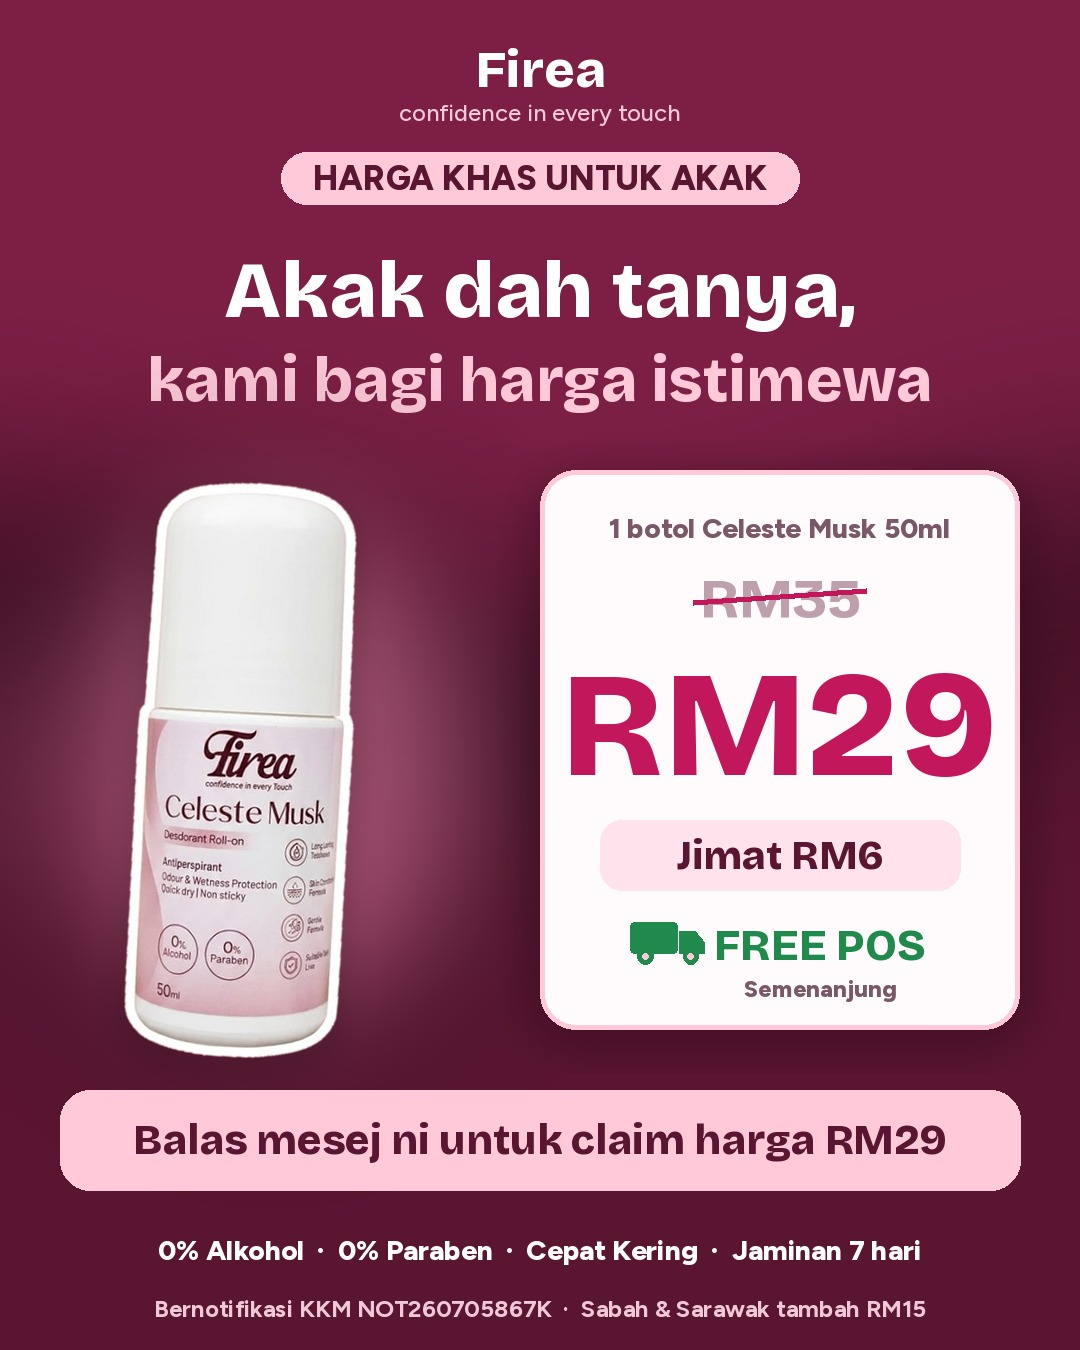
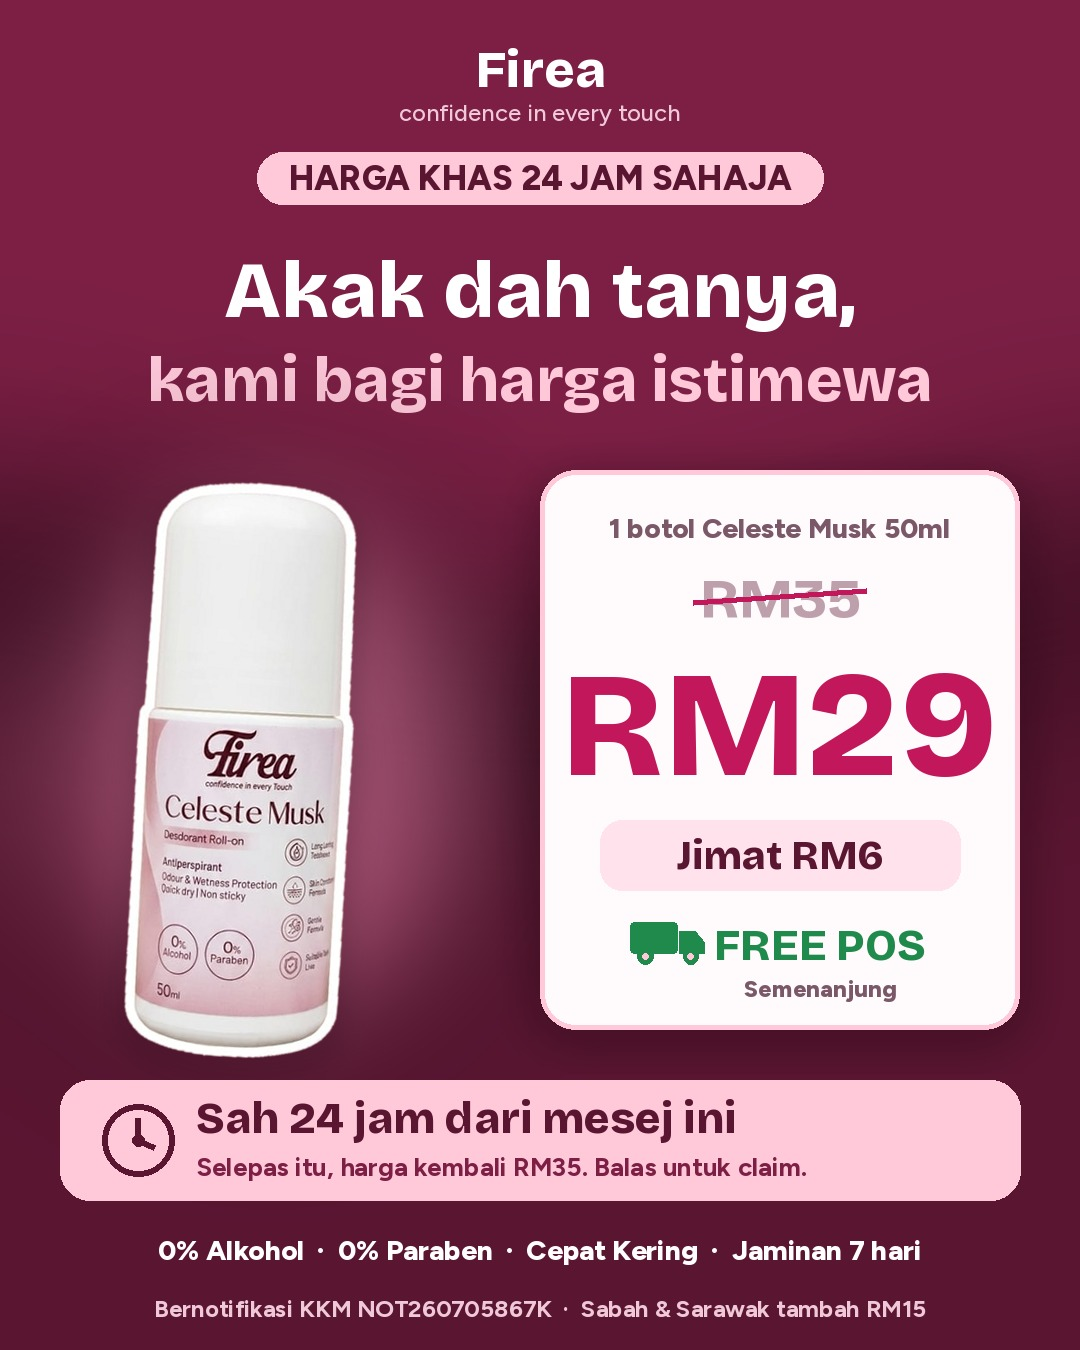
Limit RM29 offer poster to 24 hours
Claude-Session: https://claude.ai/code/session_01FgdAy58wajktQYLn5mzK8A

Changed region(s): [[0.0611, 0.7778, 0.9472, 0.9022], [0.2139, 0.0933, 0.7639, 0.1556]]

diff --git a/firea/posters/make_posters.py b/firea/posters/make_posters.py
@@ -403,7 +403,7 @@ def poster_offer_29():
     """Offer follow-up untuk yang dah WhatsApp tapi belum bayar: 1 botol RM29, free pos Semenanjung."""
     base = bg_berry(); d = ImageDraw.Draw(base)
     brand_header(base, dark=True)
-    pill(d, W / 2, 178, "HARGA KHAS UNTUK AKAK", F("Figtree800", 34), PETAL, BERRY, 32, 14)
+    pill(d, W / 2, 178, "HARGA KHAS 24 JAM SAHAJA", F("Figtree800", 34), PETAL, BERRY, 32, 14)
     text(d, (W / 2, 290), "Akak dah tanya,", F("Bricolage800", 80), WHITE, "mm")
     text(d, (W / 2, 380), "kami bagi harga istimewa", F("Bricolage800", 62), PETAL, "mm")
     glow = Image.new("RGBA", (W, H), (0, 0, 0, 0))
@@ -428,8 +428,10 @@ def poster_offer_29():
     cd.text((cw / 2 + 40, 475), "FREE POS", font=F("Bricolage800", 44), fill=GOOD, anchor="mm")
     cd.text((cw / 2 + 40, 518), "Semenanjung", font=F("Figtree800", 24), fill=MUTED, anchor="mm")
     shadow_paste(base, card, (rx0, 470), op=120)
-    d.rounded_rectangle((60, 1090, 1020, 1190), 30, fill=PETAL)
-    text(d, (W / 2, 1140), "Balas mesej ni untuk claim harga RM29", F("Bricolage800", 42), BERRY, "mm")
+    d.rounded_rectangle((60, 1080, 1020, 1200), 30, fill=PETAL)
+    draw_clock(d, 138, 1140, 36, BERRY)
+    text(d, (196, 1118), "Sah 24 jam dari mesej ini", F("Bricolage800", 44), BERRY, "lm")
+    text(d, (196, 1167), "Selepas itu, harga kembali RM35. Balas untuk claim.", F("Figtree700", 26), BERRY2, "lm")
     text(d, (W / 2, 1250), "0% Alkohol  ·  0% Paraben  ·  Cepat Kering  ·  Jaminan 7 hari", F("Figtree800", 28), WHITE, "mm")
     footer(base, "Bernotifikasi KKM NOT260705867K  ·  Sabah & Sarawak tambah RM15", dark=True)
     save(base, "11-offer-rm29")
